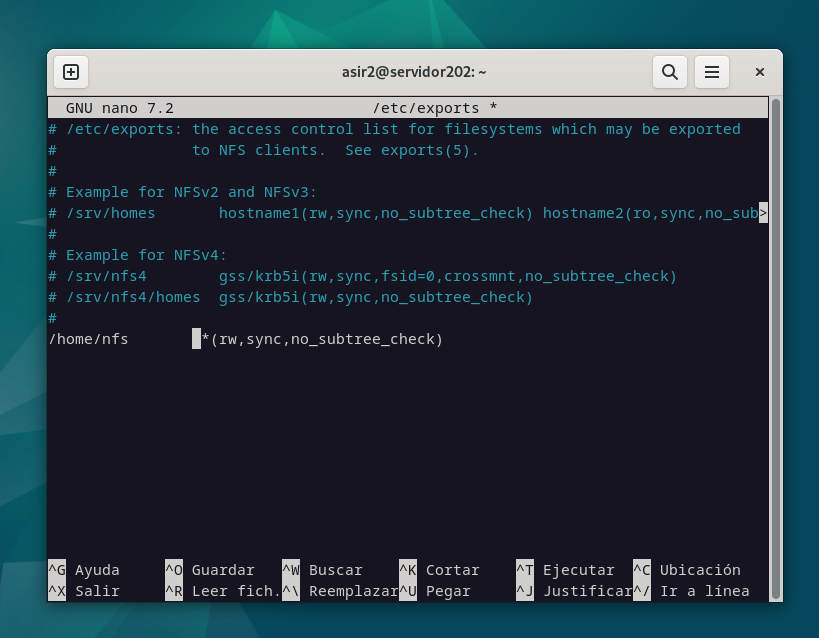
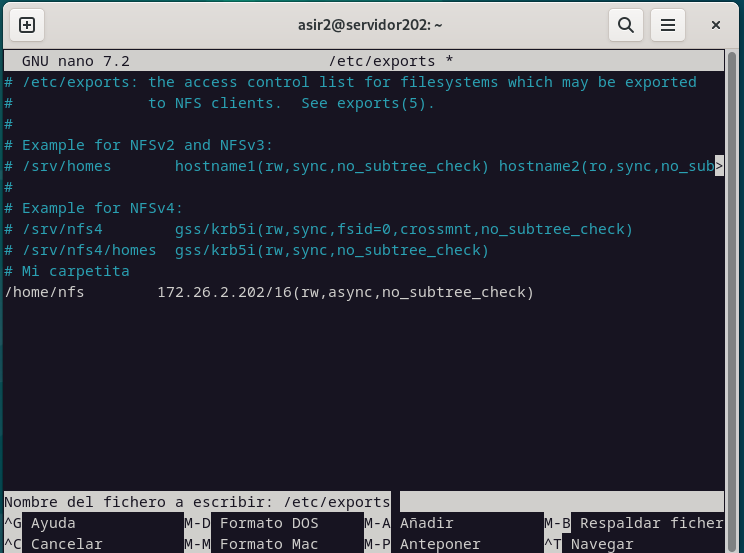
tarea serverldap carpeta ccompartida

diff --git a/01_ASO/04_OpenLdap/04_CarpetaCompartida.md b/01_ASO/04_OpenLdap/04_CarpetaCompartida.md
@@ -3,19 +3,37 @@
 ## Pasos
 1. `apt update && upgrade`
 2. `apt install nfs-kernel-server`
-3. Editamos archivo de exportaciones: `nano /etc/exports`
-    * Añadimos la siguiente linea: `/home/nfs        *(rw,sync,no_subtree_check)`
+2. `mkdir /home/nfs` `chmod 777 /home/nfs`
+4. Editamos archivo de exportaciones: `nano /etc/exports`
+    * Añadimos la siguiente linea: 
 
 ![alt text](IMG/Carpeta_Compartida/01.png)
 
 4. Reiniciar el servicio NFS:
 ~~~bash
-exportfs -ra
+exportfs -rva
 systemctl restart nfs-kernel-server
-
+showmount --exports localhost
 ## Encaso de necesitar de abrir puertos
 sudo ufw allow from [IP_de_los_equipos] to any port nfs
 ~~~
 
-5. En el cliente se ha de instalar nfs-cpmmon:`apt-get install nfs-common`
+5. En el cliente se ha de instalar nfs-common: `apt-get install nfs-common`
 
+6. `showmount --exports 172.26.202.202`
+
+7. Creamos la carpeta donde montar `mkdir /home/nfs`, para montar automaticamente: `nano /etc/fstab`
+
+![alt text](IMG/Carpeta_Compartida/02.png)
+
+8. `mount -a` `systemctl daemon-reload`
+
+## Comprobación
+
+1. Nos loggeamos como juan en el cliente y creamos un archivo en la carpeta compartida.
+
+![alt text](IMG/Carpeta_Compartida/03.png)
+
+2. Vamos al servidor y vemos si se ha creado el archivo
+
+![alt text](IMG/Carpeta_Compartida/04.png)
